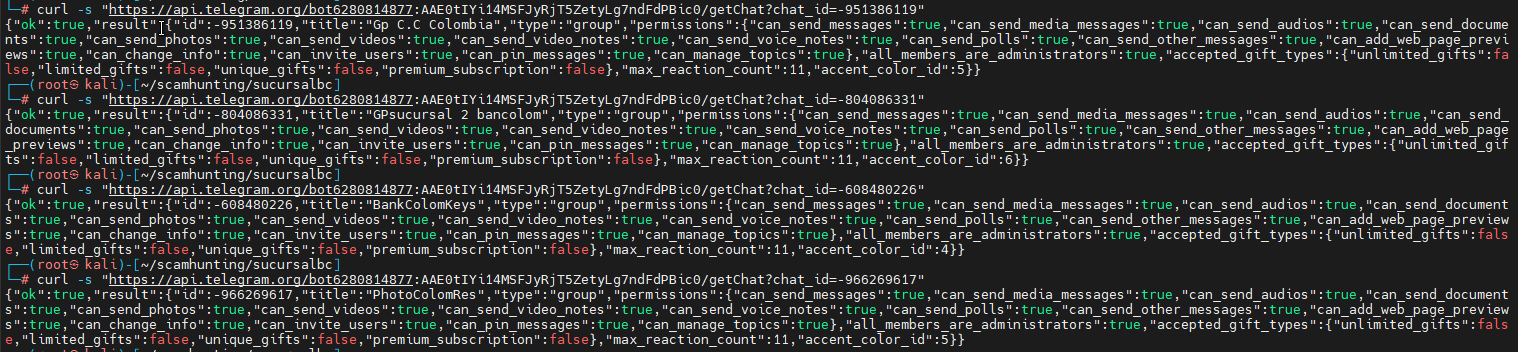
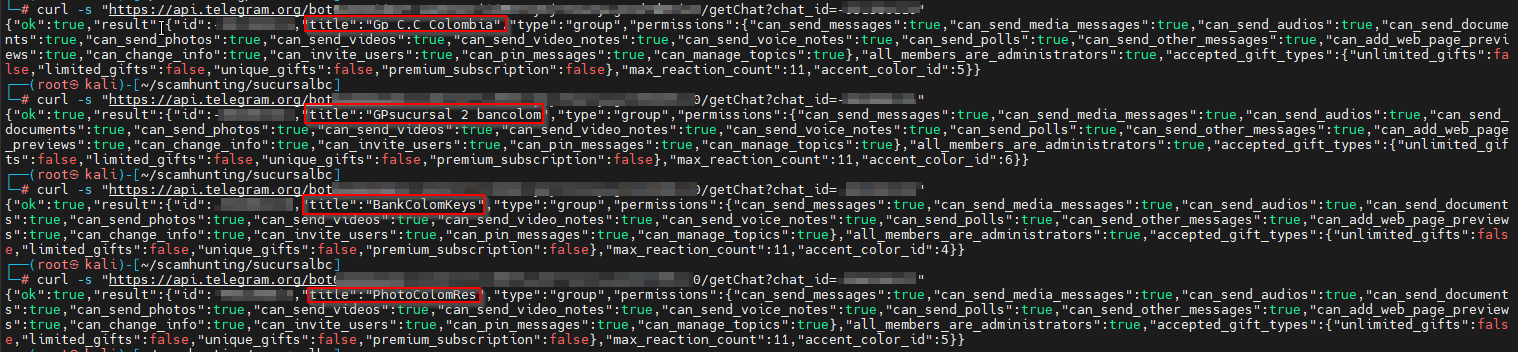
bancolombia scam

diff --git a/_posts/2025-05-03-Bancolombia Scam.md b/_posts/2025-05-03-Bancolombia Scam.md
@@ -58,6 +58,21 @@ the next step was get information from the channel IDs
 
 ![](/assets/images/bancolombia-scam/infochats_token_bot.png)
 
+> #1 Title Chat: Gp C.C Colombia
+> #2 Title Chat: GPsucursal 2 bancolom
+> #3 Title Chat: BankColomKeys
+> #4 Title Chat: PhotoColomRes
+
+![](/assets/images/bancolombia-scam/administrators1.png)
+
+the first time that I take the evidence his username was "Donaldtrump_21" but few days later he changed it to "Bctc2" (premium telegram).
+
+![](/assets/images/bancolombia-scam/bctc2.png)
+
+
+
+
+
 
 
 
@@ -66,6 +81,4 @@ the next step was get information from the channel IDs
 People still being victim of scams in general, no matters how unreal can be look those scams... We have to share the knowledge and explain to people how this kind of scam works. :D  
 
 
-- [You can follow my Twitter thread here...](https://twitter.com/_Mrpack/status/1599873749460787200?s=20&t=HzH6Hp2mv1xPg3Ct65EPnw)
-- [Metallica Twit here...](https://twitter.com/Metallica/status/1599979746104061952?s=20&t=b8RXi0AuUQuKJLKwNwjM6A)
 
